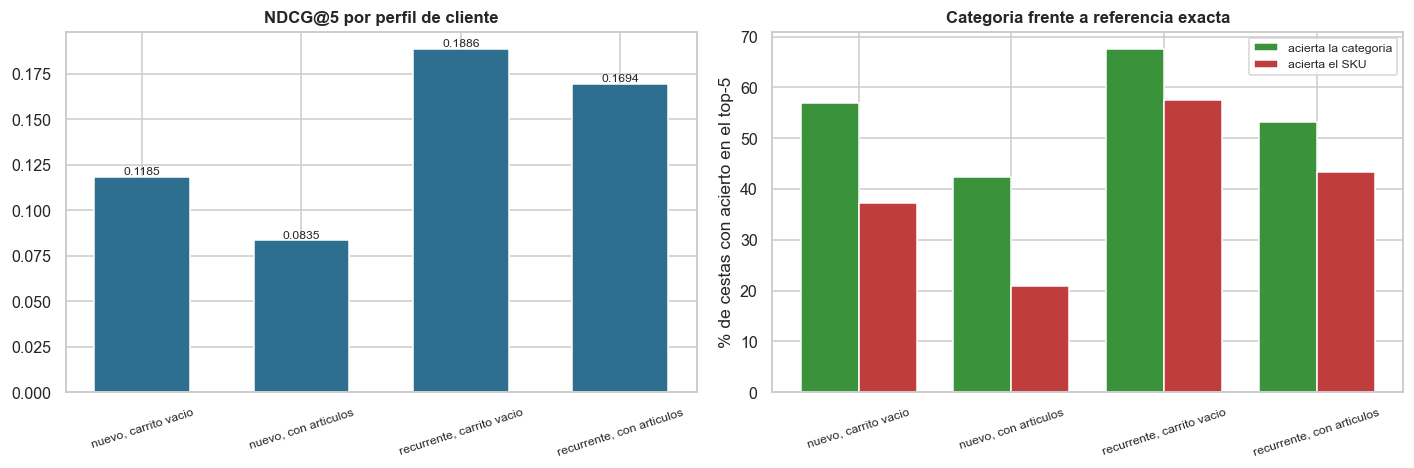
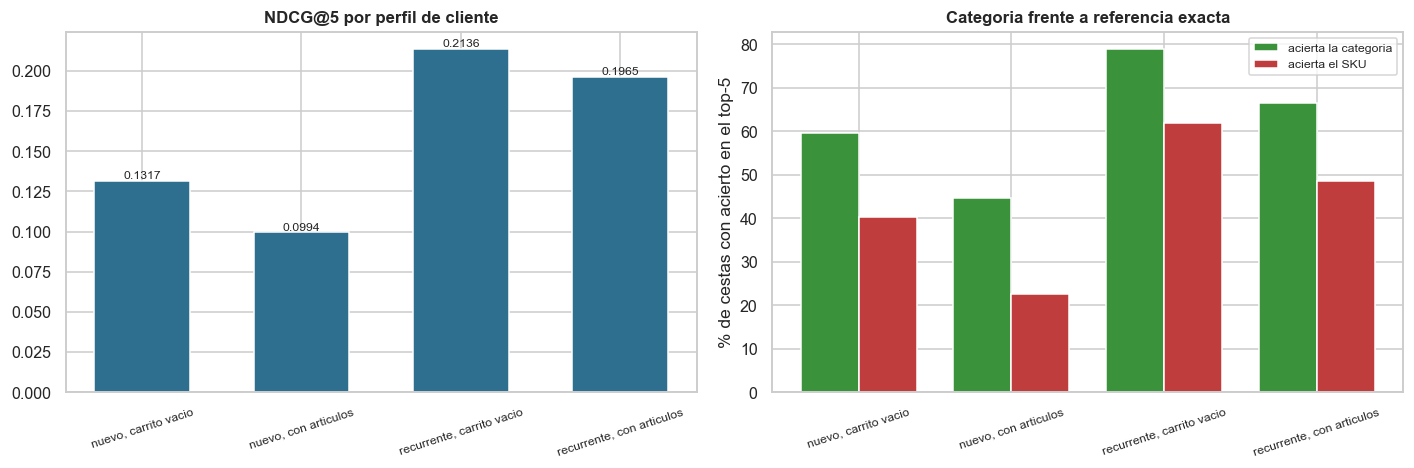
docs: regenerar IMPACT.md y el informe de hallazgos con el recomendador actual
Los dos leen `reports/recommender/metrics.json` y seguian con las cifras del
cierre de la Fase 7 (hit_rate@5 del 49,5 %), anteriores a los puntos A1-A4
y M3-M4 del diagnostico.

- IMPACT.md: el ranker acierta en el 54,2 % de las cestas frente al 27,0 %
  del baseline (+27,15 puntos, antes +22,75). Cross-sell 37.143 -> 44.327
  EUR/ano; total 289.430 -> 296.614 EUR/ano por 100.000 clientes y 100.000
  cestas online al mes. El NBA no cambia (252.286 EUR) y pasa a ser el 85 %.
- business_findings.md y su figura 06: NDCG@5 0,1752 -> 0,2006, categoria
  60,0 % -> 71,8 %, SKU 49,5 % -> 54,2 %, ventaja sobre el baseline
  x2,02 -> x2,28.
- README y ROADMAP con las cifras de impacto nuevas; las tablas historicas
  de la Fase 7 se quedan como estaban.

Generado con `python -m src.impact.pipeline` y `python -m src.eda.findings`;
tests de impacto en verde.

diff --git a/IMPACT.md b/IMPACT.md
@@ -32,10 +32,10 @@ tira del promedio hacia abajo.
 
 ## 1. El recomendador: cross-sell
 
-El ranker acierta algo en el **49,5 %** de las cestas de test,
-frente al **26,7 %** del baseline sin aprendizaje (popularidad
-reciente x indice estacional). Son **22,75 puntos** mas: un
-**85 % mas de cestas con una sugerencia relevante**. Esa
+El ranker acierta algo en el **54,2 %** de las cestas de test,
+frente al **27,0 %** del baseline sin aprendizaje (popularidad
+reciente x indice estacional). Son **27,15 puntos** mas: un
+**101 % mas de cestas con una sugerencia relevante**. Esa
 cifra no lleva ningun supuesto dentro.
 
 Traducida a euros sobre una base de referencia de **100.000 cestas online al mes**,
@@ -43,14 +43,14 @@ con la incrementalidad al 10 %:
 
 | Paso | Valor |
 | --- | ---: |
-| Cestas al mes con un acierto que el baseline no daba | 22.750 |
-| x incrementalidad (10 %) = unidades extra al mes | 2.275 |
-| x importe medio de linea = **venta extra al mes** | **12.791 €** |
-| x margen bruto = **margen extra al mes** | **3.095 €** |
-| **Margen extra al ano** | **37.143 €** |
+| Cestas al mes con un acierto que el baseline no daba | 27.150 |
+| x incrementalidad (10 %) = unidades extra al mes | 2.715 |
+| x importe medio de linea = **venta extra al mes** | **15.265 €** |
+| x margen bruto = **margen extra al mes** | **3.694 €** |
+| **Margen extra al ano** | **44.327 €** |
 
 Sobre el supermercado simulado tal cual (13.651 cestas
-online al mes) son 423 € al mes.
+online al mes) son 504 € al mes.
 
 ### Barrido del supuesto
 
@@ -58,19 +58,19 @@ Por 100.000 cestas online al mes:
 
 | Incrementalidad | Unidades extra/mes | Venta extra/mes | Margen/mes | Margen/ano |
 | ---: | ---: | ---: | ---: | ---: |
-| 2 % | 455 | 2.558 € | 619 € | 7.429 € |
-| 5 % | 1.137 | 6.396 € | 1.548 € | 18.572 € |
-| 10 % | 2.275 | 12.791 € | 3.095 € | 37.143 € |
-| 20 % | 4.550 | 25.582 € | 6.191 € | 74.287 € |
-| 30 % | 6.825 | 38.373 € | 9.286 € | 111.430 € |
+| 2 % | 543 | 3.053 € | 739 € | 8.865 € |
+| 5 % | 1.358 | 7.633 € | 1.847 € | 22.164 € |
+| 10 % | 2.715 | 15.265 € | 3.694 € | 44.327 € |
+| 20 % | 5.430 | 30.530 € | 7.388 € | 88.655 € |
+| 30 % | 8.145 | 45.795 € | 11.082 € | 132.982 € |
 
-La lectura honesta: **el cross-sell del recomendador vale 37.143 € al ano por cada 100.000 cestas online al mes**, frente a 252.286 € del NBA por cada 100.000 clientes.
+La lectura honesta: **el cross-sell del recomendador vale 44.327 € al ano por cada 100.000 cestas online al mes**, frente a 252.286 € del NBA por cada 100.000 clientes.
 
 Antes de la Fase 7 eran **5.721 €**, con el ranker acertando en el
 11,8 % de las cestas. El codigo es el mismo; lo que cambio es el dato. El
 generador original elegia la referencia dentro de la categoria casi al azar entre ~24, asi
 que ningun modelo podia acertar el SKU; con fidelidad de marca y 8 referencias por
-categoria el mismo sistema acierta en el 49,5 %
+categoria el mismo sistema acierta en el 54,2 %
 ([`ROADMAP.md`](ROADMAP.md), Fase 7). Parte de la subida es el catalogo mas pequeno
 — tambien el baseline acierta mas —, y por eso la fila que cuenta es la de cestas con un
 acierto **que el baseline no daba**. Las cifras de antes estan congeladas en
@@ -106,9 +106,9 @@ Por 100.000 clientes activos y 100.000 cestas online al mes:
 
 | Pieza | Al mes | Al ano |
 | --- | ---: | ---: |
-| Cross-sell del recomendador (margen) | 3.095 € | 37.143 € |
+| Cross-sell del recomendador (margen) | 3.694 € | 44.327 € |
 | Politica de Next Best Action | 21.024 € | 252.286 € |
-| **Total** | **24.119 €** | **289.430 €** |
+| **Total** | **24.718 €** | **296.614 €** |
 
 Las dos cifras no son homogeneas y conviene no sumarlas a la ligera: la del recomendador
 es margen bruto sobre venta incremental y descansa en un supuesto de incrementalidad; la
@@ -118,7 +118,7 @@ en que las dos son **conservadoras por construccion**: el recomendador se compar
 un baseline que ya funciona, y la politica contra la mejor de las alternativas triviales,
 no contra no hacer nada.
 
-El reparto tambien dice donde esta hoy el proyecto: el NBA pone el **87 %** del total y el recomendador el 13 %. En parte tiene sentido — la politica decide sobre el cliente entero y el recomendador solo sobre cinco huecos de una cesta — y en parte es historia: antes de la Fase 7 el recomendador ponia solo el
+El reparto tambien dice donde esta hoy el proyecto: el NBA pone el **85 %** del total y el recomendador el 15 %. En parte tiene sentido — la politica decide sobre el cliente entero y el recomendador solo sobre cinco huecos de una cesta — y en parte es historia: antes de la Fase 7 el recomendador ponia solo el
 2 %, porque el dato no le dejaba acertar la referencia.
 
 ## Que haria falta para afinar esto

diff --git a/README.md b/README.md
@@ -879,20 +879,20 @@ Por **100.000 clientes activos y 100.000 cestas online al mes**:
 
 | Pieza | Al mes | Al año |
 | --- | ---: | ---: |
-| Cross-sell del recomendador (margen, con incrementalidad al 10 %) | 3.095 € | 37.143 € |
+| Cross-sell del recomendador (margen, con incrementalidad al 10 %) | 3.694 € | 44.327 € |
 | Política de Next Best Action | 21.024 € | 252.286 € |
-| **Total** | **24.119 €** | **289.430 €** |
+| **Total** | **24.718 €** | **296.614 €** |
 
 Dos lecturas que conviene no maquillar:
 
-- **La mayor parte del valor sigue viniendo del NBA** (87 % del total). Tiene sentido: la
+- **La mayor parte del valor sigue viniendo del NBA** (85 % del total). Tiene sentido: la
   política decide sobre el cliente entero y el recomendador sólo sobre cinco huecos de una
   cesta. Antes de la Fase 7 el recomendador ponía el 2 % (5.721 €/año); el cambio lo cuenta
   [`IMPACT.md`](IMPACT.md), con las cifras viejas congeladas en
   [`reports/impact/baseline_fase5.json`](reports/impact/baseline_fase5.json).
 - **La cifra que no lleva supuestos dentro es la relativa**: el ranker deja una sugerencia
-  relevante en un **85 % más de cestas** que el baseline de popularidad (49,5 % frente a
-  26,7 %). El resto de la cadena hasta el euro son multiplicaciones sobre esa base.
+  relevante en el **doble de cestas** que el baseline de popularidad (54,2 % frente a
+  27,0 %, +101 %). El resto de la cadena hasta el euro son multiplicaciones sobre esa base.
 
 ### El informe de hallazgos de negocio
 
@@ -1186,7 +1186,7 @@ Quedan tres deudas anotadas, ninguna bloqueante:
 | **2 · ETL y features** | PySpark: limpieza documentada, Data Trust Score, RFM, `due_for_repurchase` (Tarea 2), afinidad de cesta y las 9 preguntas de negocio como funciones | 149 tests; informes regenerables en `reports/etl/` | Data Trust **91,42 (C) → 100,00 (A)** |
 | **3 · Recomendador** | Dos etapas: cinco fuentes de candidatos (popularidad estacional, co-compra de SKU y de categoría, historial con recompra, ALS) + ranker LightGBM `LambdaRank` con relevancia graduada. Split temporal **y por cesta**, con las fuentes reajustadas por ventana | Tests de fuga de datos, historial as-of, paridad con la demo y objetivo; `reports/recommender/` y `verify_recommender_diagnostics` | **NDCG@5 graduada = 0,2148** [0,2120, 0,2177] · categoría 71,8 % · SKU 54,2 % · 91,9 % del techo teórico de categoría |
 | **4 · Next Best Action** | Dos modelos de propensión (churn a 4 semanas, compra en categoría a 7 días) sobre cortes temporales, y política de valor esperado con catálogo de acciones y economía por departamento | 25 tests, incluida la aritmética del valor esperado a mano; `reports/nba/` | **AUC 0,8527 / 0,7630** · política **+3.938 €** vs. no actuar |
-| **5 · Empaquetado** | Resumen de impacto en euros con su barrido de supuestos, informe de 8 hallazgos de negocio con figuras, y registro opcional de experimentos en MLflow | 37 tests; `IMPACT.md` y `reports/insights/` se regeneran con un comando | **289.430 €/año** por cada 100.000 clientes y 100.000 cestas online/mes |
+| **5 · Empaquetado** | Resumen de impacto en euros con su barrido de supuestos, informe de 8 hallazgos de negocio con figuras, y registro opcional de experimentos en MLflow | 37 tests; `IMPACT.md` y `reports/insights/` se regeneran con un comando | **296.614 €/año** por cada 100.000 clientes y 100.000 cestas online/mes |
 | **6 · Demo** | Catálogo con 60 fotos reales de Pexels, inferencia sin Spark y app en Streamlit con cesta en vivo, top-5 explicado, NBA y cestas reales de test | 59 tests, incluida la paridad con el pipeline; arranque real verificado | ✅ acierto de categoría y exacto, lado a lado |
 | **7 · Fidelidad de producto** | Fidelidad de marca y surtido de 8 referencias en el generador, y las Fases 2, 3, 4 y 6 rehechas encima | Tests nuevos del generador; comparación con las cifras congeladas en `reports/*/baseline_*.json` | **NDCG@5 ×5,1** · SKU acertado en el 49,5 % de las cestas (antes 11,8 %) |
 

diff --git a/reports/insights/business_findings.md b/reports/insights/business_findings.md
@@ -123,13 +123,13 @@ de target encontrada antes de entrenar, no despues de presentar el resultado.
 
 ![Recomendador por perfil](06_recomendador.png)
 
-NDCG@5 = **0,1752** frente a 0,0868 del baseline sin
-aprendizaje. El sistema acierta la **categoria** en el **60,0 %** de las
-cestas y el **SKU exacto** en el **49,5 %**, y el pool de candidatos cubre el
-76,9 % del target.
+NDCG@5 = **0,2006** frente a 0,0881 del baseline sin
+aprendizaje. El sistema acierta la **categoria** en el **71,8 %** de las
+cestas y el **SKU exacto** en el **54,2 %**, y el pool de candidatos cubre el
+77,8 % del target.
 
 Por perfil, el peor es **2 - nuevo, con articulos** (NDCG@5 =
-0,0835). Es el unico que no puede tirar ni de historial ni de ALS, y
+0,0994). Es el unico que no puede tirar ni de historial ni de ALS, y
 encima su cesta ya va por la mitad, asi que lo facil de acertar ya esta dentro.
 
 **Antes de la Fase 7 el mismo codigo daba NDCG@5 = 0,0343**, con la
@@ -141,9 +141,9 @@ referencias, y sin tocar una linea del recomendador la distancia entre categoria
 se cierra.
 
 Parte de la subida es el catalogo mas pequeno: el baseline tambien acierta mas
-(0,0200 -> 0,0868). Lo que es merito del
+(0,0200 -> 0,0881). Lo que es merito del
 ranker es su ventaja sobre ese baseline, que pasa de **x1,71** a
-**x2,02**.
+**x2,28**.
 
 **Por que importa.** Un NDCG bajo se puede leer como "el modelo es malo" y no lo era.
 Medir la categoria al lado del SKU fue lo que senalo al dato, y la demo ensena ahora las

diff --git a/ROADMAP.md b/ROADMAP.md
@@ -318,9 +318,10 @@ supuesto es el tamaño del premio, no el signo.
 - [x] Resumen de impacto de negocio (medio folio): NDCG@5 y uplift de NBA traducidos a
       impacto estimado (ej. cross-sell extra en €/mes)
       · `IMPACT.md`, que escribe `python -m src.impact.pipeline` · verificado por
-      `tests/test_impact.py` · regenerado en la 7e: **289.430 €/año** por 100.000 clientes
+      `tests/test_impact.py` · regenerado en la 7e: 289.430 €/año por 100.000 clientes
       y 100.000 cestas online/mes (antes 262.777 €), con las cifras previas congeladas en
-      `reports/impact/baseline_fase5.json`
+      `reports/impact/baseline_fase5.json` · regenerado tras los puntos A1–A4 y M3–M4 del
+      diagnóstico: **296.614 €/año** (el ranker acierta en el 54,2 % de las cestas)
 - [x] Notebook o informe con los hallazgos de negocio (estilo "vistazo al análisis" del
       otro proyecto)
       · `reports/insights/business_findings.md` + 8 figuras, que escribe
